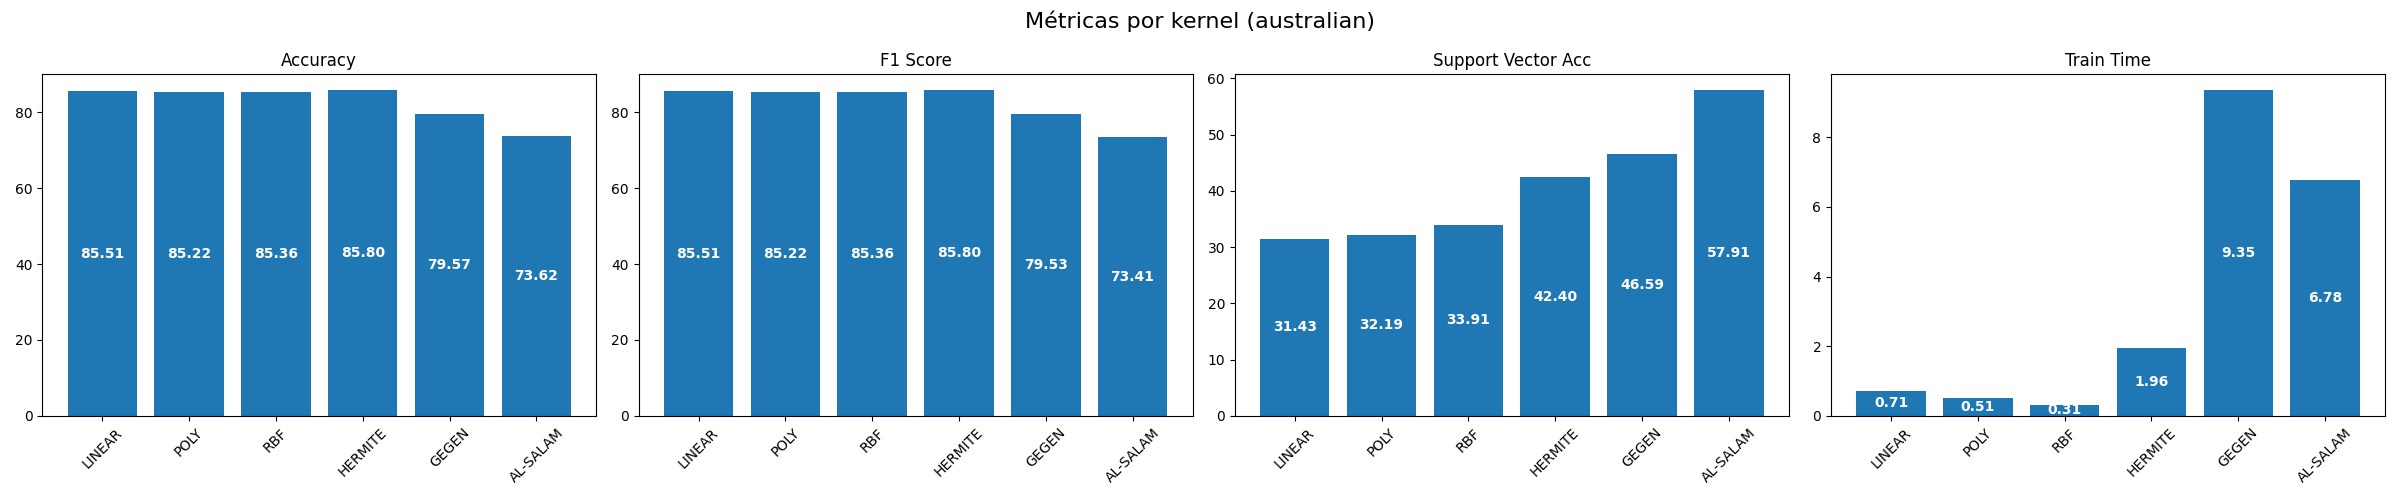
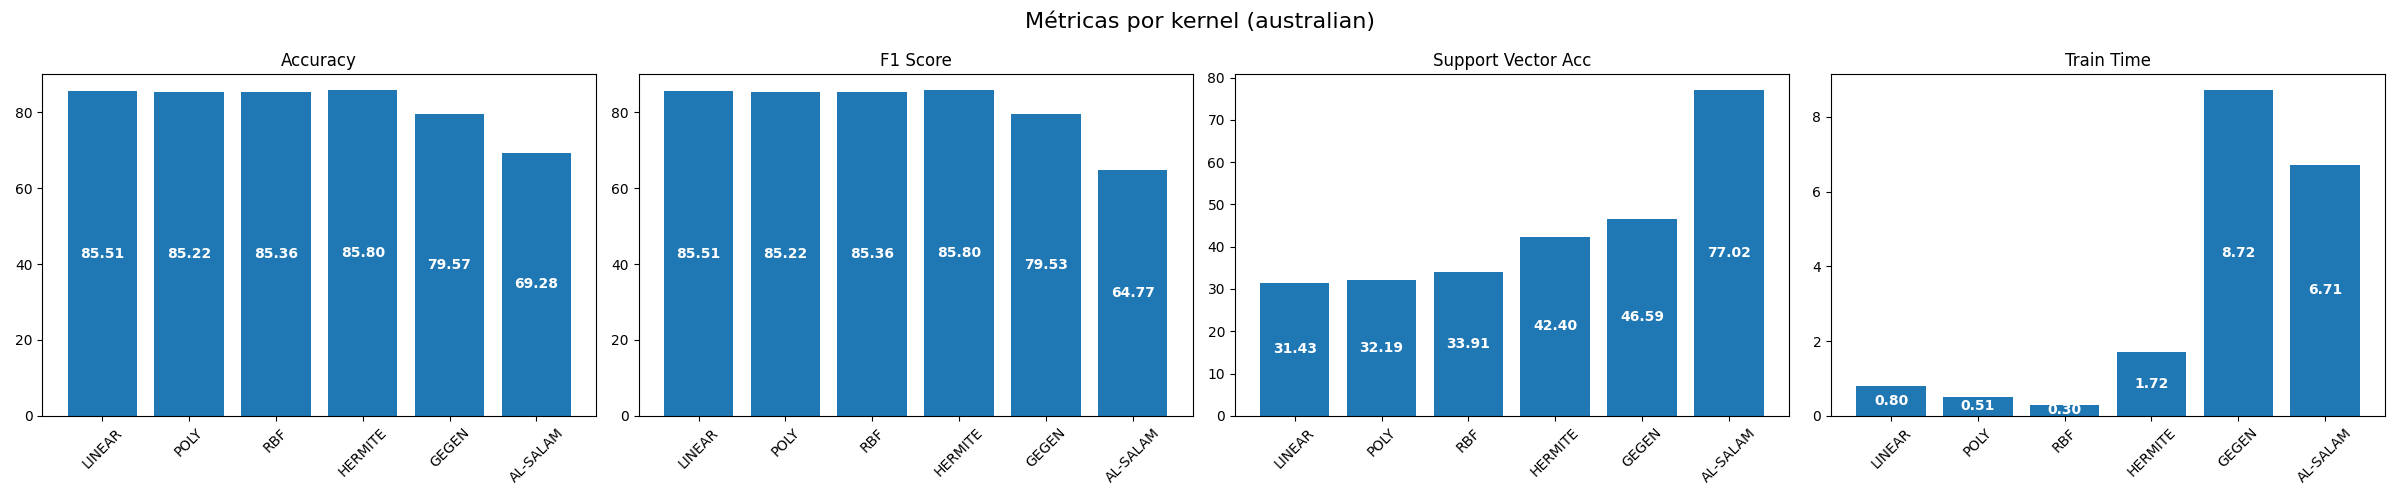
modified:   Kernels/__pycache__/all_kernels.cpython-311.pyc

diff --git a/Kernels/custom.py b/Kernels/custom.py
@@ -238,7 +238,7 @@ def scaling_factor_al_salam_carlitz(a, q, i, N):
     return 1.0 / (np.sqrt(N + 1) * U_i_abs)
 
 
-def kernel_AlSalam(X: np.ndarray, Z: np.ndarray, q: float, a: float, N: int, w) -> np.ndarray:
+def kernel_AlSalam(X: np.ndarray, Z: np.ndarray, q: float, a: float, N: int) -> np.ndarray:
     """
     Kernel de productos de polinomios Al-Salam–Carlitz I con escalado y peso.
 
@@ -267,7 +267,7 @@ def kernel_AlSalam(X: np.ndarray, Z: np.ndarray, q: float, a: float, N: int, w) 
     K = np.ones((nX, nZ), dtype=float)
 
     # Precomputamos los factores de escalado scale_i para i=0..N
-    scales = np.array([scaling_factor_al_salam_carlitz(a, q, i, N) for i in range(N + 1)])**2
+    # scales = np.array([scaling_factor_al_salam_carlitz(a, q, i, N) for i in range(N + 1)])**2
     # scales[i] = 1 / (√(i+1) · |U_i(-1; q,a)|)**2
 
     for dim in range(d):
@@ -278,15 +278,14 @@ def kernel_AlSalam(X: np.ndarray, Z: np.ndarray, q: float, a: float, N: int, w) 
         # 2) Función de peso w(t) para esa dimensión
         wx = weight_al_salam_carlitz(X[:, dim], q, a).reshape(-1, 1) # (nX, 1)
         wz = weight_al_salam_carlitz(Z[:, dim], q, a).reshape(-1, 1) # (nZ, 1)
-        wx_norm = wx / w    # w es el valor máximo, escalar
-        wz_norm = wz / w
-        wx_scaled = 0.9 * wx_norm + 0.1
-        wz_scaled = 0.9 * wz_norm + 0.1
+        wx_scaled = np.maximum(wx, 0.1)
+        wz_scaled = np.maximum(wz, 0.1)
+
 
         # 3) Construimos las características φ = U * scale * w
         #    Escalado de cada columna i con scales[i]
-        phi_x = Ux * scales[None, :] * wx_scaled        # (nX, N+1)
-        phi_z = Uz * scales[None, :] * wz_scaled         # (nZ, N+1)
+        phi_x = Ux * wx_scaled        # (nX, N+1)
+        phi_z = Uz * wz_scaled         # (nZ, N+1)
 
         # 4) Producto interno entre φ_x y φ_z para esta dimensión
         K_dim = phi_x @ phi_z.T   # (nX, nZ)

diff --git a/Model/train.py b/Model/train.py
@@ -66,17 +66,20 @@ def train_svm(
         # Entrenamiento
         pipe.fit(X_tr, y_tr)
 
-        # Proporción de vectores de soporte en train
-        n_sup = pipe.named_steps['svc'].support_.shape[0]
-        support_props.append(n_sup / len(X_tr) * 100)
-
         # Predicciones
         y_pred_val = pipe.predict(X_val)
         y_pred_tr  = pipe.predict(X_tr)
 
         # Accuracy
-        acc_val.append(pipe.score(X_val, y_val))
+        acc = pipe.score(X_val, y_val)
+        acc_val.append(acc)
         acc_tr.append(pipe.score(X_tr, y_tr))
+
+        # Proporción de vectores de soporte en train
+        n_sup = pipe.named_steps['svc'].support_.shape[0]
+        support_props.append(n_sup / len(X_tr) * 100)
+        # support_props.append(n_sup / acc * 100)
+
         # F1
         f1_val.append(f1_score(y_val, y_pred_val, average='weighted'))
         f1_tr.append(f1_score(y_tr, y_pred_tr, average='weighted'))

diff --git a/Kernels/all_kernels.py b/Kernels/all_kernels.py
@@ -8,7 +8,7 @@ def build_kernels(
     gegen_degree: int = 3,
     gegen_alpha: float = 0.1,
     al_degree: int = 3,
-    al_a: float = -1.5,
+    al_a: float = -1,
     al_q: float = 0.5
 ) -> List[Dict[str, Callable]]:
     """
@@ -29,14 +29,9 @@ def build_kernels(
         'name': 'GEGEN',
         'func': lambda X, Y, n=gegen_degree, alpha=gegen_alpha: c.gegenbauer_kernel(X, Y, n, alpha)
     })
-    x_vals = np.linspace(-1, 1, 1000)
-    z_vals = np.linspace(-1, 1, 1000)
-    X, Z = np.meshgrid(x_vals, z_vals)
 
-    weights = c.weight_al_salam_carlitz(X, al_q, al_a) * c.weight_al_salam_carlitz(Z, al_q, al_a)
-    w = np.max(weights)
     kernels.append({
         'name': 'AL-SALAM',
-        'func': lambda X, Y, n=al_degree, a=al_a, q=al_q: c.kernel_AlSalam(X, Y, q, a, n, w)
+        'func': lambda X, Y, n=al_degree, a=al_a, q=al_q: c.kernel_AlSalam(X, Y, q, a, n)
     })
     return kernels

diff --git a/experiments.py b/experiments.py
@@ -90,7 +90,11 @@ def main(config_path: str, do_plots: bool = True):
             elapsed = time.perf_counter() - start
             metrics['train_time'] = elapsed
 
-            log.info(f"-> {name}: {metrics}")
+            log.info(f"-> {name}: "
+            f"accuracy={metrics['accuracy']:.2f}, "
+            f"f1_score={metrics['f1_score']:.2f}, "
+            f"support_vector_acc={metrics['support_vector_acc']:.2f}, "
+            f"train_time={metrics['train_time']:.2f}s")
 
             # Registrar
             rec = {
